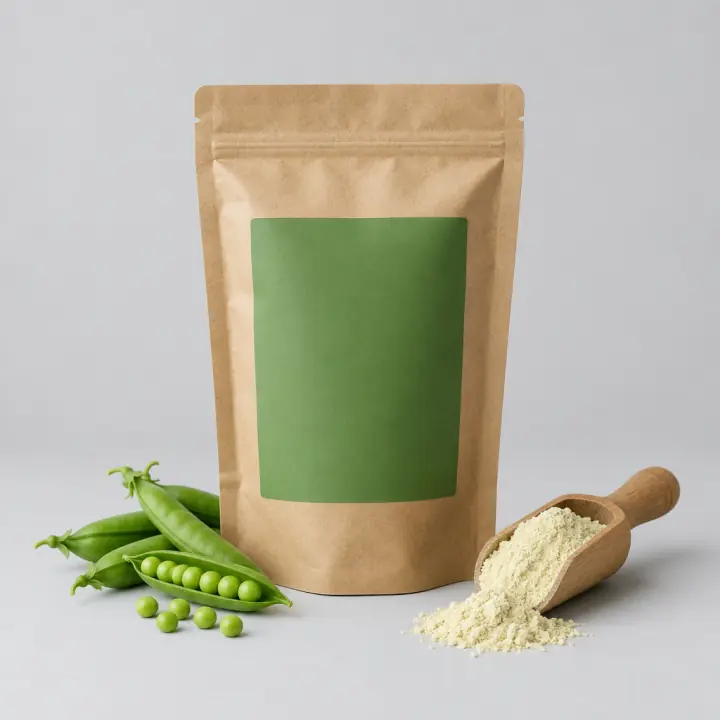
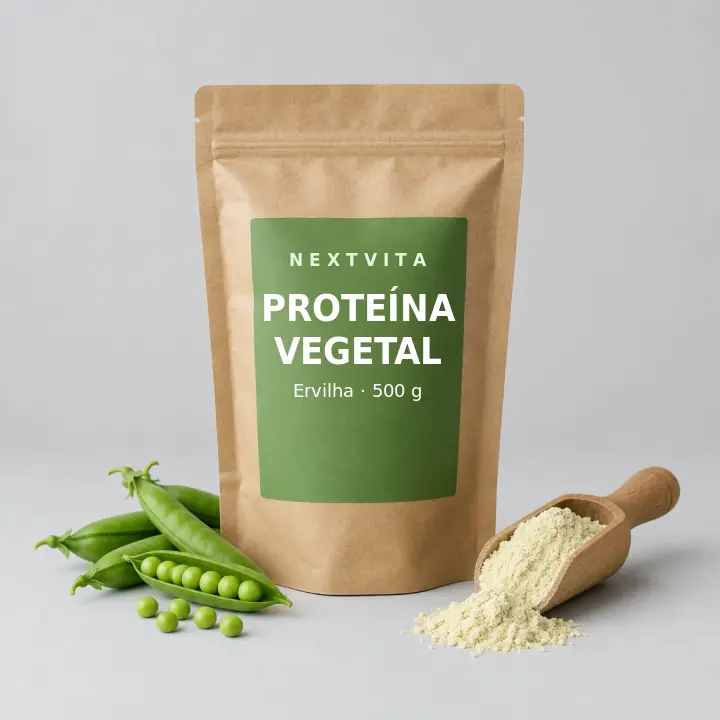
feat(loja): rótulos realistas nos suplementos, aviso de pré-lançamento e lojas ilustrativas
- Fotos de whey, pré-treino, proteína vegetal, multivitamínico e vitamina D3
  com rótulo da marca própria NextVita
- Aviso profissional: vendas ainda fechadas, produtos e lojas ilustrativos
- Seis lojas de exemplo de setores diferentes, com 'Vendido por' em cada card

Claude-Session: https://claude.ai/code/session_01QiLGjeCfYLAangA4y4J3wT

Changed region(s): [[0.3667, 0.3972, 0.6417, 0.55], [0.3972, 0.3361, 0.6111, 0.3667]]

diff --git a/src/lib/store.ts b/src/lib/store.ts
@@ -1,7 +1,20 @@
 import { useSyncExternalStore } from "react";
 
 export type StoreCategory = "suplementos" | "vitaminas" | "nutricao" | "roupas-masculinas" | "roupas-femininas" | "acessorios";
-export type Product = { id: string; name: string; category: StoreCategory; priceCents: number; oldPriceCents?: number; img: string; tag?: string; text: string };
+export type Product = { id: string; name: string; category: StoreCategory; priceCents: number; oldPriceCents?: number; img: string; tag?: string; text: string; vendorId?: VendorId };
+
+/** Lojas ilustrativas: demonstram como diferentes setores venderão na plataforma. Não são lojas reais. */
+export type VendorId = "arena" | "farmavida" | "emporio" | "studio-move" | "base-athletic" | "casa-do-treino";
+export type Vendor = { id: VendorId; name: string; sector: string; city: string; initials: string; color: string };
+export const vendors: Vendor[] = [
+  { id: "arena", name: "Arena Suplementos", sector: "Suplementos esportivos", city: "Rio Branco, AC", initials: "AS", color: "bg-blue-700" },
+  { id: "farmavida", name: "Farmácia Vida & Saúde", sector: "Farmácia e vitaminas", city: "Cruzeiro do Sul, AC", initials: "FV", color: "bg-rose-700" },
+  { id: "emporio", name: "Empório Verde Natural", sector: "Produtos naturais", city: "Feijó, AC", initials: "EV", color: "bg-lime-700" },
+  { id: "studio-move", name: "Studio Move Fitwear", sector: "Moda fitness feminina", city: "Rio Branco, AC", initials: "SM", color: "bg-pink-700" },
+  { id: "base-athletic", name: "Base Athletic", sector: "Moda fitness masculina", city: "Sena Madureira, AC", initials: "BA", color: "bg-slate-800" },
+  { id: "casa-do-treino", name: "Casa do Treino", sector: "Equipamentos e acessórios", city: "Tarauacá, AC", initials: "CT", color: "bg-amber-700" },
+];
+export const vendorById = (id?: VendorId) => vendors.find((v) => v.id === id);
 
 export const categories: { key: StoreCategory | "todos"; label: string }[] = [
   { key: "todos", label: "Tudo" },
@@ -18,23 +31,23 @@ export const categoryLabel: Record<StoreCategory, string> = {
 
 /** Catálogo inicial (vitrine em desenvolvimento): preços de demonstração até a loja abrir oficialmente. */
 export const products: Product[] = [
-  { id: "whey-900", name: "Whey Protein 900 g", category: "suplementos", priceCents: 14990, oldPriceCents: 17990, img: "/loja/v2/whey.webp", tag: "Mais vendido", text: "Proteína de alto valor biológico para recuperação muscular." },
-  { id: "whey-shaker", name: "Kit Whey + Coqueteleira", category: "suplementos", priceCents: 16990, img: "/loja/v2/kit-whey-coqueteleira.webp", tag: "Kit", text: "Whey com coqueteleira para levar ao treino." },
-  { id: "pre-treino", name: "Pré-treino 300 g", category: "suplementos", priceCents: 11990, oldPriceCents: 13990, img: "/loja/v2/pre-treino.webp", text: "Energia e foco para treinos intensos." },
-  { id: "proteina-vegetal", name: "Proteína Vegetal 500 g", category: "nutricao", priceCents: 12990, img: "/loja/v2/proteina-vegetal.webp", tag: "Novo", text: "Opção sem lactose para o dia a dia." },
-  { id: "multivitaminico", name: "Multivitamínico 120 cápsulas", category: "vitaminas", priceCents: 6990, img: "/loja/v2/multivitaminico.webp", tag: "Essencial", text: "Complexo de vitaminas e minerais para a rotina." },
-  { id: "vitamina-d", name: "Vitamina D3 60 cápsulas", category: "vitaminas", priceCents: 4990, oldPriceCents: 5990, img: "/loja/v2/vitamina-d.webp", text: "Apoio à saúde óssea e imunidade." },
-  { id: "camiseta-regata", name: "Regata Dry Fit Masculina", category: "roupas-masculinas", priceCents: 7990, img: "/loja/v2/regata.webp", tag: "Dry Fit", text: "Tecido leve que seca rápido, ideal para musculação." },
-  { id: "conjunto-treino-m", name: "Conjunto Treino Masculino", category: "roupas-masculinas", priceCents: 15990, oldPriceCents: 18990, img: "/loja/v2/conjunto-masculino.webp", text: "Camiseta e bermuda de alta mobilidade." },
-  { id: "camiseta-oversized", name: "Camiseta Performance", category: "roupas-masculinas", priceCents: 8990, img: "/loja/v2/camiseta-performance.webp", text: "Conforto e respirabilidade para todo treino." },
-  { id: "conjunto-fem-1", name: "Conjunto Top + Legging Preto", category: "roupas-femininas", priceCents: 17990, img: "/loja/v2/conjunto-preto.webp", tag: "Destaque", text: "Top com sustentação e legging de cintura alta." },
-  { id: "conjunto-fem-2", name: "Conjunto Rosé Seamless", category: "roupas-femininas", priceCents: 18990, oldPriceCents: 21990, img: "/loja/v2/conjunto-rose.webp", text: "Modelagem sem costura, toque macio." },
-  { id: "conjunto-fem-3", name: "Conjunto Azul Marinho", category: "roupas-femininas", priceCents: 19990, img: "/loja/v2/conjunto-marinho.webp", tag: "Novo", text: "Conjunto com jaqueta para o antes e depois do treino." },
-  { id: "legging", name: "Legging Compressão", category: "roupas-femininas", priceCents: 11990, img: "/loja/mulher4.webp", text: "Compressão confortável e cós alto." },
-  { id: "halteres", name: "Par de Halteres Emborrachados", category: "acessorios", priceCents: 12990, img: "/loja/v2/halteres.webp", text: "Peso fixo com revestimento antiderrapante." },
-  { id: "kit-barra", name: "Kit Anilhas e Barra", category: "acessorios", priceCents: 39990, img: "/loja/v2/kit-barra.webp", tag: "Kit", text: "Para treino de força completo em casa." },
-  { id: "tapete", name: "Tapete de Treino Antiderrapante", category: "acessorios", priceCents: 8990, img: "/loja/v2/tapete.webp", text: "Alta aderência para alongamento e funcional." },
-  { id: "coqueteleira", name: "Coqueteleira 600 ml", category: "acessorios", priceCents: 3990, img: "/loja/v2/coqueteleira.webp", text: "Tampa de segurança e misturador interno." },
+  { id: "whey-900", name: "Whey Protein 900 g", category: "suplementos", priceCents: 14990, oldPriceCents: 17990, img: "/loja/v2/whey.webp", tag: "Mais vendido", text: "Proteína de alto valor biológico para recuperação muscular.", vendorId: "arena" },
+  { id: "whey-shaker", name: "Kit Whey + Coqueteleira", category: "suplementos", priceCents: 16990, img: "/loja/v2/kit-whey-coqueteleira.webp", tag: "Kit", text: "Whey com coqueteleira para levar ao treino.", vendorId: "arena" },
+  { id: "pre-treino", name: "Pré-treino 300 g", category: "suplementos", priceCents: 11990, oldPriceCents: 13990, img: "/loja/v2/pre-treino.webp", text: "Energia e foco para treinos intensos.", vendorId: "arena" },
+  { id: "proteina-vegetal", name: "Proteína Vegetal 500 g", category: "nutricao", priceCents: 12990, img: "/loja/v2/proteina-vegetal.webp", tag: "Novo", text: "Opção sem lactose para o dia a dia.", vendorId: "emporio" },
+  { id: "multivitaminico", name: "Multivitamínico 120 cápsulas", category: "vitaminas", priceCents: 6990, img: "/loja/v2/multivitaminico.webp", tag: "Essencial", text: "Complexo de vitaminas e minerais para a rotina.", vendorId: "farmavida" },
+  { id: "vitamina-d", name: "Vitamina D3 60 cápsulas", category: "vitaminas", priceCents: 4990, oldPriceCents: 5990, img: "/loja/v2/vitamina-d.webp", text: "Apoio à saúde óssea e imunidade.", vendorId: "farmavida" },
+  { id: "camiseta-regata", name: "Regata Dry Fit Masculina", category: "roupas-masculinas", priceCents: 7990, img: "/loja/v2/regata.webp", tag: "Dry Fit", text: "Tecido leve que seca rápido, ideal para musculação.", vendorId: "base-athletic" },
+  { id: "conjunto-treino-m", name: "Conjunto Treino Masculino", category: "roupas-masculinas", priceCents: 15990, oldPriceCents: 18990, img: "/loja/v2/conjunto-masculino.webp", text: "Camiseta e bermuda de alta mobilidade.", vendorId: "base-athletic" },
+  { id: "camiseta-oversized", name: "Camiseta Performance", category: "roupas-masculinas", priceCents: 8990, img: "/loja/v2/camiseta-performance.webp", text: "Conforto e respirabilidade para todo treino.", vendorId: "base-athletic" },
+  { id: "conjunto-fem-1", name: "Conjunto Top + Legging Preto", category: "roupas-femininas", priceCents: 17990, img: "/loja/v2/conjunto-preto.webp", tag: "Destaque", text: "Top com sustentação e legging de cintura alta.", vendorId: "studio-move" },
+  { id: "conjunto-fem-2", name: "Conjunto Rosé Seamless", category: "roupas-femininas", priceCents: 18990, oldPriceCents: 21990, img: "/loja/v2/conjunto-rose.webp", text: "Modelagem sem costura, toque macio.", vendorId: "studio-move" },
+  { id: "conjunto-fem-3", name: "Conjunto Azul Marinho", category: "roupas-femininas", priceCents: 19990, img: "/loja/v2/conjunto-marinho.webp", tag: "Novo", text: "Conjunto com jaqueta para o antes e depois do treino.", vendorId: "studio-move" },
+  { id: "legging", name: "Legging Compressão", category: "roupas-femininas", priceCents: 11990, img: "/loja/mulher4.webp", text: "Compressão confortável e cós alto.", vendorId: "studio-move" },
+  { id: "halteres", name: "Par de Halteres Emborrachados", category: "acessorios", priceCents: 12990, img: "/loja/v2/halteres.webp", text: "Peso fixo com revestimento antiderrapante.", vendorId: "casa-do-treino" },
+  { id: "kit-barra", name: "Kit Anilhas e Barra", category: "acessorios", priceCents: 39990, img: "/loja/v2/kit-barra.webp", tag: "Kit", text: "Para treino de força completo em casa.", vendorId: "casa-do-treino" },
+  { id: "tapete", name: "Tapete de Treino Antiderrapante", category: "acessorios", priceCents: 8990, img: "/loja/v2/tapete.webp", text: "Alta aderência para alongamento e funcional.", vendorId: "casa-do-treino" },
+  { id: "coqueteleira", name: "Coqueteleira 600 ml", category: "acessorios", priceCents: 3990, img: "/loja/v2/coqueteleira.webp", text: "Tampa de segurança e misturador interno.", vendorId: "casa-do-treino" },
 ];
 
 export const money = (cents: number) => (cents / 100).toLocaleString("pt-BR", { style: "currency", currency: "BRL" });

diff --git a/src/components/vigia/HomeStore.tsx b/src/components/vigia/HomeStore.tsx
@@ -1,7 +1,7 @@
 import { useMemo, useRef, useState } from "react";
 import { Link } from "@tanstack/react-router";
-import { ArrowRight, Check, ChevronLeft, ChevronRight, Minus, Plus, ShoppingBag, ShoppingCart } from "lucide-react";
-import { cart, categories, categoryLabel, money, PIX_DISCOUNT, products, useCart, type Product, type StoreCategory } from "@/lib/store";
+import { ArrowRight, BadgeInfo, Check, ChevronLeft, ChevronRight, MapPin, Minus, Plus, ShoppingBag, ShoppingCart } from "lucide-react";
+import { cart, categories, categoryLabel, money, PIX_DISCOUNT, products, useCart, vendorById, vendors, type Product, type StoreCategory } from "@/lib/store";
 
 type Filter = StoreCategory | "todos";
 
@@ -32,6 +32,7 @@ function ProductCard({ p, qty, onAdd }: { p: Product; qty: number; onAdd: (p: Pr
           {p.oldPriceCents && <span className="text-[11px] text-slate-500 line-through tabular-nums"><span className="sr-only">Antes: </span>{money(p.oldPriceCents)}</span>}
         </p>
         <p className="text-[11px] text-emerald-700 tabular-nums dark:text-emerald-300">{money(pixPrice(p.priceCents))} no Pix</p>
+        {vendorById(p.vendorId) && <p className="mt-0.5 truncate text-[11px] text-slate-500 dark:text-muted-foreground">Vendido por <span className="font-semibold text-slate-700 dark:text-foreground">{vendorById(p.vendorId)!.name}</span></p>}
         {qty > 0 ? (
           <div className="mt-2 flex h-9 items-center justify-between rounded-lg border border-emerald-600/40 bg-emerald-600/10 text-emerald-900 dark:text-emerald-100">
             <button type="button" onClick={() => cart.setQty(p.id, qty - 1)} aria-label={qty === 1 ? `Remover ${p.name} do carrinho` : `Diminuir quantidade de ${p.name}`} className="grid size-9 place-items-center rounded-l-lg hover:bg-emerald-600/15"><Minus size={14} /></button>
@@ -89,6 +90,13 @@ export function HomeStore({ className = "" }: { className?: string }) {
         </div>
       </header>
 
+      <div role="note" className="mt-3 flex items-start gap-3 rounded-xl border border-amber-300/70 bg-amber-50 px-3.5 py-3 text-amber-950 dark:border-amber-400/30 dark:bg-amber-400/10 dark:text-amber-100">
+        <BadgeInfo size={18} className="mt-0.5 shrink-0 text-amber-700 dark:text-amber-300" aria-hidden="true" />
+        <p className="text-[13px] leading-snug">
+          <strong className="font-semibold">Loja em pré-lançamento.</strong> As vendas ainda não estão abertas. Produtos, preços e lojas exibidos são ilustrativos e mostram como a vitrine vai funcionar quando a loja for lançada.
+        </p>
+      </div>
+
       <div className="mt-3 flex items-center gap-2">
         <div role="group" aria-label="Filtrar produtos por categoria" className="flex min-w-0 flex-1 gap-1.5 overflow-x-auto [scrollbar-width:none] [&::-webkit-scrollbar]:hidden">
           {visibleCategories.map((c) => {
@@ -111,10 +119,30 @@ export function HomeStore({ className = "" }: { className?: string }) {
         {shown.map((p) => <ProductCard key={p.id} p={p} qty={qtyOf(p.id)} onAdd={add} />)}
       </div>
 
-      <p className="mt-3 text-xs text-slate-600 dark:text-muted-foreground">
-        Loja em fase de lançamento: preços e estoque são de demonstração e o pagamento é combinado com a nossa equipe.{" "}
-        <Link to="/parceiros" className="font-semibold text-foreground underline underline-offset-2">Tem uma loja? Venda aqui.</Link>
-      </p>
+      <div className="mt-4 border-t border-border pt-4">
+        <div className="flex flex-wrap items-baseline justify-between gap-2">
+          <h3 className="font-display text-base font-bold">Lojas na plataforma</h3>
+          <Link to="/parceiros" className="inline-flex items-center gap-1 text-sm font-semibold text-primary hover:underline">
+            Tem uma loja? Venda aqui <ArrowRight size={14} aria-hidden="true" />
+          </Link>
+        </div>
+        <p className="text-xs text-slate-600 dark:text-muted-foreground">Exemplos ilustrativos de setores que poderão vender na NextVita.</p>
+        <ul className="-mx-4 mt-2.5 flex gap-2 overflow-x-auto px-4 [scrollbar-width:none] sm:mx-0 sm:grid sm:grid-cols-3 sm:px-0 lg:grid-cols-6 [&::-webkit-scrollbar]:hidden">
+          {vendors.map((v) => {
+            const total = products.filter((p) => p.vendorId === v.id).length;
+            return (
+              <li key={v.id} className="flex w-56 shrink-0 items-center gap-2.5 rounded-xl border border-border bg-background p-2.5 sm:w-auto">
+                <span className={`grid size-10 shrink-0 place-items-center rounded-lg text-sm font-bold text-white ${v.color}`} aria-hidden="true">{v.initials}</span>
+                <span className="min-w-0">
+                  <strong className="block truncate text-[13px] font-semibold">{v.name}</strong>
+                  <span className="block truncate text-[11px] text-slate-600 dark:text-muted-foreground">{v.sector}</span>
+                  <span className="flex items-center gap-1 truncate text-[11px] text-slate-500 dark:text-muted-foreground"><MapPin size={11} aria-hidden="true" /> {v.city} · {total} {total === 1 ? "produto" : "produtos"}</span>
+                </span>
+              </li>
+            );
+          })}
+        </ul>
+      </div>
     </section>
   );
 }

diff --git a/src/components/vigia/StorePage.tsx b/src/components/vigia/StorePage.tsx
@@ -12,7 +12,7 @@ export function StoreDevBanner({ className = "" }: { className?: string }) {
   return (
     <div role="note" className={`flex items-start gap-3 rounded-2xl border border-amber-400/50 bg-gradient-to-r from-amber-100 to-yellow-50 px-4 py-3 text-amber-950 shadow-sm dark:from-amber-500/20 dark:to-yellow-500/10 dark:text-amber-100 ${className}`}>
       <span className="grid size-9 shrink-0 place-items-center rounded-xl bg-amber-500 text-white"><Construction size={19} /></span>
-      <p className="text-sm leading-snug"><strong className="block text-[13px] uppercase tracking-wider">Site em desenvolvimento</strong>A loja virtual está em construção: produtos e preços são de demonstração. Você já pode montar o carrinho e registrar pedidos; o pagamento é combinado com a nossa equipe.</p>
+      <p className="text-sm leading-snug"><strong className="block text-[13px] font-semibold">Loja em pré-lançamento</strong>As vendas ainda não estão abertas. Produtos, preços e lojas exibidos são ilustrativos e mostram como a vitrine vai funcionar no lançamento. Pedidos registrados agora servem apenas como teste e não geram cobrança automática; nossa equipe entra em contato para combinar qualquer compra.</p>
     </div>
   );
 }
